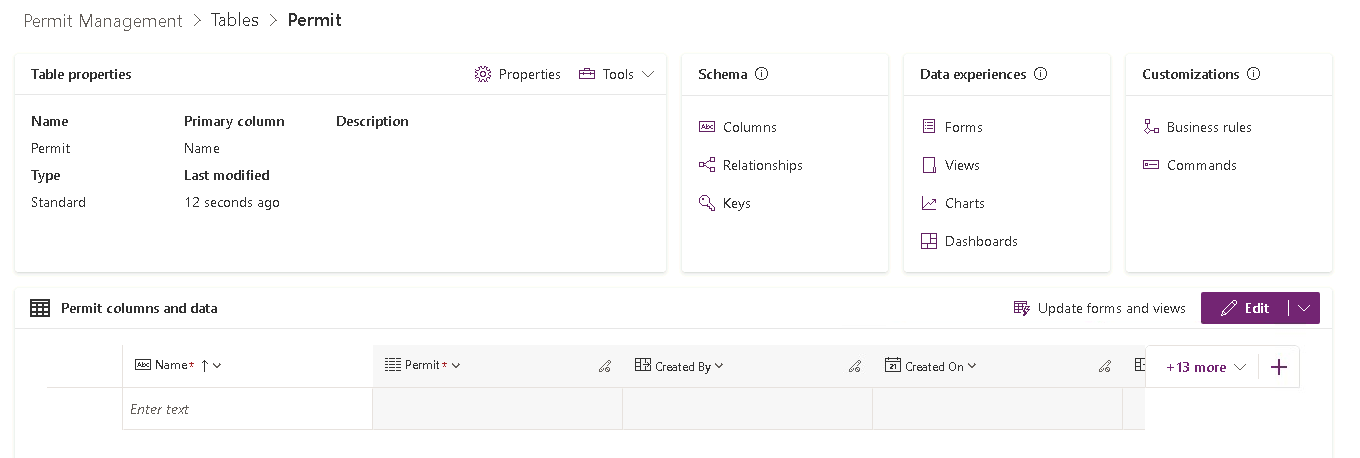
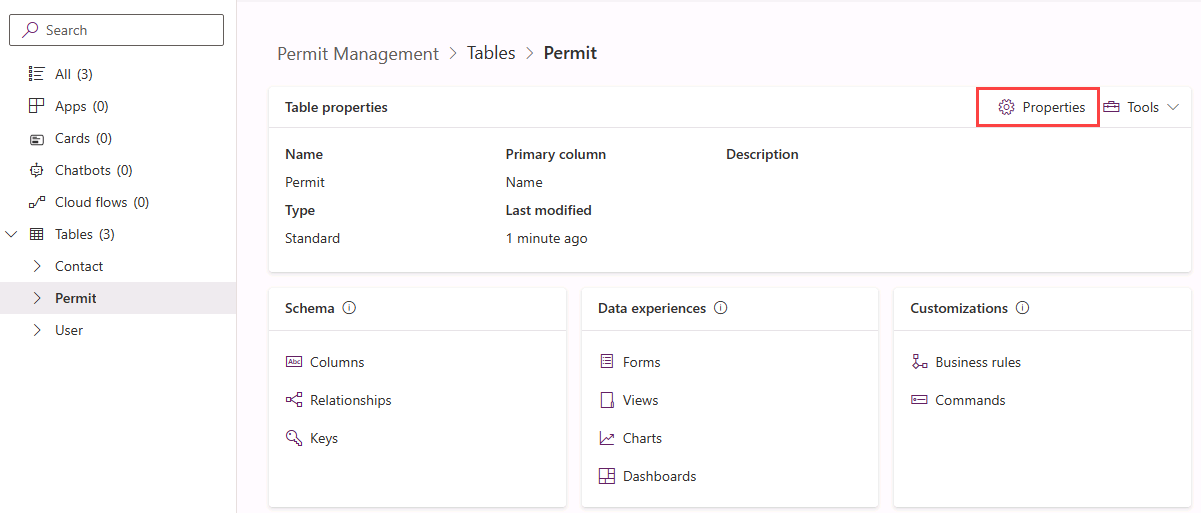
Ensure that attachments are enabled on Permit

diff --git a/Instructions/Labs/LAB[PL-400]_Lab01_Data_Modeling.md b/Instructions/Labs/LAB[PL-400]_Lab01_Data_Modeling.md
@@ -73,13 +73,13 @@ A completed solution file for this lab can be found in the  C:\Labfiles\L01\Comp
 
     ![List of solutions in Maker portal.](../images/L01/solutions-list.png)
 
-1. Click **+ New solution**.
+1. Select **+ New solution**.
 
 1. In the **Display name** text box, enter `Permit Management`. The Name text box should be automatically populated.
 
    ![Add new publisher - screenshot](../images/L01/Mod_01_Data_Modeling_image4.png)
 
-1. Click **+ New publisher** below the **Publisher** dropdown.
+1. Select **+ New publisher** below the **Publisher** dropdown.
 
 1. In the **Display name** text box, enter `Contoso`.
 
@@ -91,15 +91,15 @@ A completed solution file for this lab can be found in the  C:\Labfiles\L01\Comp
 
 1. Make a note of the **Choice value prefix**.
 
-1. Click **Save**.
+1. Select **Save**.
 
 1. In the **Publisher** drop-down, select **Contoso (contoso)**.
 
    ![New solution - screenshot](../images/L01/new-solution.png)
 
-1. Click **Create**.
+1. Select **Create**.
 
-## Exercise 2 - Add components to the solution
+## Exercise 2: Add components to the solution
 
 In this exercise, you will add existing tables to the solution.
 
@@ -113,15 +113,15 @@ In this exercise, you will add existing tables to the solution.
 
 1. Open the **Permit Management** solution you created in the previous exercise.
 
-1. Click on **Add existing** and select **Table**.
+1. Select **Add existing** and select **Table**.
 
     ![Add existing tables.](../images/L01/add-existing.png)
 
 1. Search for `contact` and select the **Contact** table.
 
-1. Click **Next**.
+1. Select **Next**.
 
-1. Click **Select objects**.
+1. Select **Select objects**.
 
    ![Select Table objects - screenshot](../images/L01/Mod_01_Data_Modeling_image7.png)
 
@@ -129,27 +129,27 @@ In this exercise, you will add existing tables to the solution.
 
 1. Select the **Active Contacts** view.
 
-1. Click on **Add**.
+1. Select **Add**.
 
-1. Click **Select objects**.
+1. Select **Select objects**.
 
 1. Select the **Forms** tab.
 
 1. Select the **Contact** main form.
 
-1. Click on **Add**.
+1. Select **Add**.
 
 1. You should have **1 view** and **1 form** selected.
 
    ![Add objects](../images/L01/Mod_01_Data_Modeling_image8.png)
 
-1. Select **Add**. This will add the Contact table to the Practice Management solution.
+1. Select **Add**. This will add the Contact table to the Permit Management solution.
 
-1. Click on **Add existing** and select **Table**.
+1. Select **Add existing** and select **Table**.
 
 1. Search for `user` and select the **User** table.
 
-1. Click **Next**.
+1. Select **Next**.
 
 1. **DO NOT** select any objects and Select **Add**. Your solution should now have two tables.
 
@@ -167,7 +167,7 @@ In this exercise, you will create tables, add columns to these tables, and edit 
 
 1. Open the **Permit Management** solution.
 
-1. Click **+ New** and then select **Table** and select **Table** again.
+1. Select **+ New** and then select **Table** and select **Table** again.
 
    ![Add new table - screenshot](../images/L01/Mod_01_Data_Modeling_image9.png)
 
@@ -177,13 +177,17 @@ In this exercise, you will create tables, add columns to these tables, and edit 
 
      ![Enable attachments for Table - screenshot](../images/L10/enable-attachments.png)
 
-1. Click **Save**.
+1. Select **Save**.
 
    ![New Permit table - screenshot](../images/L01/permit-table.png)
 
+1. Select **Properties**.
+
+1. If *Enable attachments* is not checked for the Permit table, then check **Enable attachments** again and select **Save**.
+
 1. Under **Schema**, select **Columns**.
 
-1. Click **+ New column**.
+1. Select **+ New column**.
 
     ![New column - screenshot](../images/L01/Mod_01_Data_Modeling_image10.png)
 
@@ -193,23 +197,23 @@ In this exercise, you will create tables, add columns to these tables, and edit 
 
 1. In the **Required** drop-down, select **Business required**.
 
-1. Click **Save**.
+1. Select **Save**.
 
-1. Click **+ New column**.
+1. Select **+ New column**.
 
 1. Enter `Expiration Date` for **Display name**.
 
 1. Select **Date and time** in the **Data type** drop-down and then select **Date only**.
 
-1. Click **Save**.
+1. Select **Save**.
 
-1. Click **+ New column**.
+1. Select **+ New column**.
 
 1. Enter `New Size` for **Display name**.
 
 1. Select **Number** in the **Data type** drop-down and then select **Whole number**.
 
-1. Click **Save**.
+1. Select **Save**.
 
 ### Task 3.2: Create Permit Type table and columns
 
